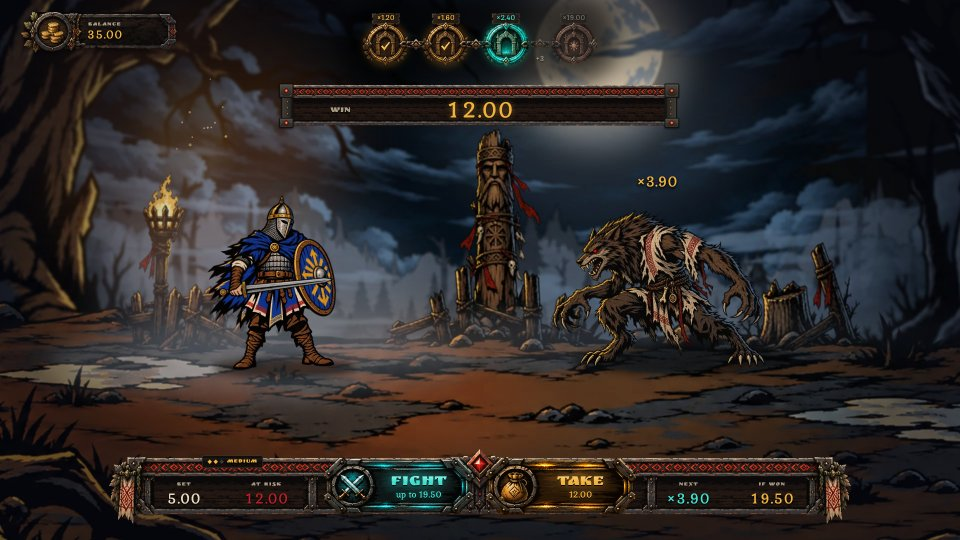
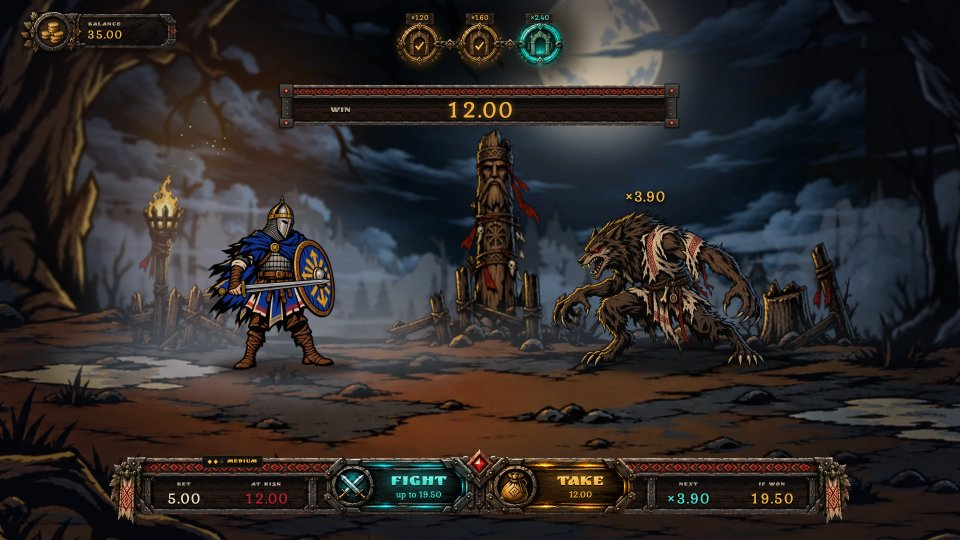
test: enemy-per-gate checks and new Figma references (L6, Baba Yaga)

diff --git a/docs/qa/report.html b/docs/qa/report.html
@@ -12,11 +12,11 @@
   tr.ok td:first-child { color: #3fe0d0; } tr.bad td:first-child { color: #f05a5a; font-weight: bold; }
 </style></head><body>
 <h1>Casino Game · visual QA</h1>
-<p>Generated 2026-11-07T09:13:08.190Z by <code>prototype/scripts/visual-qa.mjs</code> · app at 1920×1080 (shown at 960×540) · Figma file LXMHPQWUYxLjZiYVTfbx5X.
+<p>Generated 2026-11-07T09:42:40.755Z by <code>prototype/scripts/visual-qa.mjs</code> · app at 1920×1080 (shown at 960×540) · Figma file LXMHPQWUYxLjZiYVTfbx5X.
 Animated frames (attacks, boss entrance) will differ slightly: judge layout, UI and numbers. Character art comes from Lottie, so poses differ from the static Figma frames.</p>
-<h2>Money and runtime checks: 63/63 passed</h2>
-<table><tr class="ok"><td>PASS</td><td>Debug panel: effective RTP for all 7 gates (g1 = 78.0 %)</td><td>g1 78.0% g2 67.6% g3 65.9% g4 69.6% g5 78.9% g6 86.7% g7 93.1%</td></tr><tr class="ok"><td>PASS</td><td>L0: AT RISK (dock) = WIN (counter)</td><td>0.00 vs 0.00</td></tr><tr class="ok"><td>PASS</td><td>L0: AT RISK = game value</td><td>0.00 vs 0</td></tr><tr class="ok"><td>PASS</td><td>L0: TAKE disabled before the first win</td><td></td></tr><tr class="ok"><td>PASS</td><td>L0: IF WON = FIGHT amount</td><td>up to 6.00 vs 6.00</td></tr><tr class="ok"><td>PASS</td><td>L0: AT RISK has 2 decimals</td><td>0.00</td></tr><tr class="ok"><td>PASS</td><td>L0: IF WON has 2 decimals</td><td>6.00</td></tr><tr class="ok"><td>PASS</td><td>L0: WIN has 2 decimals</td><td>0.00</td></tr><tr class="ok"><td>PASS</td><td>Balance after PLAY = start − bet</td><td>35.00</td></tr><tr class="ok"><td>PASS</td><td>L1: AT RISK (dock) = WIN (counter)</td><td>6.00 vs 6.00</td></tr><tr class="ok"><td>PASS</td><td>L1: AT RISK = game value</td><td>6.00 vs 6</td></tr><tr class="ok"><td>PASS</td><td>L1: TAKE amount = AT RISK</td><td>6.00 vs 6.00</td></tr><tr class="ok"><td>PASS</td><td>L1: IF WON = FIGHT amount</td><td>up to 8.00 vs 8.00</td></tr><tr class="ok"><td>PASS</td><td>L1: AT RISK has 2 decimals</td><td>6.00</td></tr><tr class="ok"><td>PASS</td><td>L1: IF WON has 2 decimals</td><td>8.00</td></tr><tr class="ok"><td>PASS</td><td>L1: WIN has 2 decimals</td><td>6.00</td></tr><tr class="ok"><td>PASS</td><td>L1: path ends with the locked boss gate (final multiplier)</td><td>×19.00</td></tr><tr class="ok"><td>PASS</td><td>L1: plate is text only (no plate art)</td><td>×1.60</td></tr><tr class="ok"><td>PASS</td><td>L1: plate at x1217, 60 px below Counter/Win (y330)</td><td>1217,330</td></tr><tr class="ok"><td>PASS</td><td>L2: AT RISK (dock) = WIN (counter)</td><td>8.00 vs 8.00</td></tr><tr class="ok"><td>PASS</td><td>L2: AT RISK = game value</td><td>8.00 vs 8</td></tr><tr class="ok"><td>PASS</td><td>L2: TAKE amount = AT RISK</td><td>8.00 vs 8.00</td></tr><tr class="ok"><td>PASS</td><td>L2: IF WON = FIGHT amount</td><td>up to 12.00 vs 12.00</td></tr><tr class="ok"><td>PASS</td><td>L2: AT RISK has 2 decimals</td><td>8.00</td></tr><tr class="ok"><td>PASS</td><td>L2: IF WON has 2 decimals</td><td>12.00</td></tr><tr class="ok"><td>PASS</td><td>L2: WIN has 2 decimals</td><td>8.00</td></tr><tr class="ok"><td>PASS</td><td>L3: AT RISK (dock) = WIN (counter)</td><td>12.00 vs 12.00</td></tr><tr class="ok"><td>PASS</td><td>L3: AT RISK = game value</td><td>12.00 vs 12</td></tr><tr class="ok"><td>PASS</td><td>L3: TAKE amount = AT RISK</td><td>12.00 vs 12.00</td></tr><tr class="ok"><td>PASS</td><td>L3: IF WON = FIGHT amount</td><td>up to 19.50 vs 19.50</td></tr><tr class="ok"><td>PASS</td><td>L3: AT RISK has 2 decimals</td><td>12.00</td></tr><tr class="ok"><td>PASS</td><td>L3: IF WON has 2 decimals</td><td>19.50</td></tr><tr class="ok"><td>PASS</td><td>L3: WIN has 2 decimals</td><td>12.00</td></tr><tr class="ok"><td>PASS</td><td>L4: AT RISK (dock) = WIN (counter)</td><td>19.50 vs 19.50</td></tr><tr class="ok"><td>PASS</td><td>L4: AT RISK = game value</td><td>19.50 vs 19.5</td></tr><tr class="ok"><td>PASS</td><td>L4: TAKE amount = AT RISK</td><td>19.50 vs 19.50</td></tr><tr class="ok"><td>PASS</td><td>L4: IF WON = FIGHT amount</td><td>up to 34.00 vs 34.00</td></tr><tr class="ok"><td>PASS</td><td>L4: AT RISK has 2 decimals</td><td>19.50</td></tr><tr class="ok"><td>PASS</td><td>L4: IF WON has 2 decimals</td><td>34.00</td></tr><tr class="ok"><td>PASS</td><td>L4: WIN has 2 decimals</td><td>19.50</td></tr><tr class="ok"><td>PASS</td><td>L5: AT RISK (dock) = WIN (counter)</td><td>34.00 vs 34.00</td></tr><tr class="ok"><td>PASS</td><td>L5: AT RISK = game value</td><td>34.00 vs 34</td></tr><tr class="ok"><td>PASS</td><td>L5: TAKE amount = AT RISK</td><td>34.00 vs 34.00</td></tr><tr class="ok"><td>PASS</td><td>L5: IF WON = FIGHT amount</td><td>up to 57.50 vs 57.50</td></tr><tr class="ok"><td>PASS</td><td>L5: AT RISK has 2 decimals</td><td>34.00</td></tr><tr class="ok"><td>PASS</td><td>L5: IF WON has 2 decimals</td><td>57.50</td></tr><tr class="ok"><td>PASS</td><td>L5: WIN has 2 decimals</td><td>34.00</td></tr><tr class="ok"><td>PASS</td><td>Victory banner = AT RISK growth (19.50 − 12.00)</td><td>+7.50</td></tr><tr class="ok"><td>PASS</td><td>Defeat popup = −bet</td><td></td></tr><tr class="ok"><td>PASS</td><td>Defeat: balance = before − bet</td><td>35.00</td></tr><tr class="ok"><td>PASS</td><td>Cashed out popup = TAKE amount = AT RISK</td><td>+12.00 / 12.00 / 12.00</td></tr><tr class="ok"><td>PASS</td><td>Cashed out: balance = before − bet + payout</td><td>47.00</td></tr><tr class="ok"><td>PASS</td><td>Boss intro banner shows FINAL BATTLE and the final multiplier</td><td>FINAL BATTLE·MAX WIN×19.00</td></tr><tr class="ok"><td>PASS</td><td>Boss level: dock label reads MAX WIN</td><td>MAX WIN</td></tr><tr class="ok"><td>PASS</td><td>Boss level: FIGHT reads "max win" = MAX WIN slot</td><td>max win 95.00 vs 95.00</td></tr><tr class="ok"><td>PASS</td><td>Boss level: FIGHT uses Highlight</td><td></td></tr><tr class="ok"><td>PASS</td><td>Boss level: plate shows only the final multiplier</td><td>×19.00</td></tr><tr class="ok"><td>PASS</td><td>Boss level: plate at x1217, 30 px below Counter/Win (y300)</td><td>1217,300</td></tr><tr class="ok"><td>PASS</td><td>MAX WIN popup = IF WON before the boss fight</td><td>+95.00 vs 95.00</td></tr><tr class="ok"><td>PASS</td><td>MAX WIN: balance unchanged until the popup shows</td><td>35</td></tr><tr class="ok"><td>PASS</td><td>MAX WIN: balance = before − bet + payout</td><td>130.00</td></tr><tr class="ok"><td>PASS</td><td>Lottie clip mount during a round (JS) < 100 ms each (roadmap long-task target)</td><td>17 mounts, worst 35 ms (hero_05_dead.json)</td></tr><tr class="ok"><td>PASS</td><td>No page errors or console errors</td><td></td></tr></table>
-<p><code>info</code> Headless (software GL) long tasks during the perf round: 51, max 494 ms. Not a gate; see checklist for real-GPU numbers.</p>
+<h2>Money and runtime checks: 67/67 passed</h2>
+<table><tr class="ok"><td>PASS</td><td>Debug panel: effective RTP for all 7 gates (g1 = 78.0 %)</td><td>g1 78.0% g2 67.6% g3 65.9% g4 69.6% g5 78.9% g6 86.7% g7 93.1%</td></tr><tr class="ok"><td>PASS</td><td>L0: AT RISK (dock) = WIN (counter)</td><td>0.00 vs 0.00</td></tr><tr class="ok"><td>PASS</td><td>L0: AT RISK = game value</td><td>0.00 vs 0</td></tr><tr class="ok"><td>PASS</td><td>L0: TAKE disabled before the first win</td><td></td></tr><tr class="ok"><td>PASS</td><td>L0: IF WON = FIGHT amount</td><td>up to 6.00 vs 6.00</td></tr><tr class="ok"><td>PASS</td><td>L0: AT RISK has 2 decimals</td><td>0.00</td></tr><tr class="ok"><td>PASS</td><td>L0: IF WON has 2 decimals</td><td>6.00</td></tr><tr class="ok"><td>PASS</td><td>L0: WIN has 2 decimals</td><td>0.00</td></tr><tr class="ok"><td>PASS</td><td>Balance after PLAY = start − bet</td><td>35.00</td></tr><tr class="ok"><td>PASS</td><td>L1: AT RISK (dock) = WIN (counter)</td><td>6.00 vs 6.00</td></tr><tr class="ok"><td>PASS</td><td>L1: AT RISK = game value</td><td>6.00 vs 6</td></tr><tr class="ok"><td>PASS</td><td>L1: TAKE amount = AT RISK</td><td>6.00 vs 6.00</td></tr><tr class="ok"><td>PASS</td><td>L1: IF WON = FIGHT amount</td><td>up to 8.00 vs 8.00</td></tr><tr class="ok"><td>PASS</td><td>L1: AT RISK has 2 decimals</td><td>6.00</td></tr><tr class="ok"><td>PASS</td><td>L1: IF WON has 2 decimals</td><td>8.00</td></tr><tr class="ok"><td>PASS</td><td>L1: WIN has 2 decimals</td><td>6.00</td></tr><tr class="ok"><td>PASS</td><td>L1: path shows only the reached gate</td><td>1</td></tr><tr class="ok"><td>PASS</td><td>L1: plate is text only (no plate art)</td><td>×1.60</td></tr><tr class="ok"><td>PASS</td><td>L1: plate over the vovkulak at 1193,360 (Figma 756:6778)</td><td>1193,360</td></tr><tr class="ok"><td>PASS</td><td>L2: AT RISK (dock) = WIN (counter)</td><td>8.00 vs 8.00</td></tr><tr class="ok"><td>PASS</td><td>L2: AT RISK = game value</td><td>8.00 vs 8</td></tr><tr class="ok"><td>PASS</td><td>L2: TAKE amount = AT RISK</td><td>8.00 vs 8.00</td></tr><tr class="ok"><td>PASS</td><td>L2: IF WON = FIGHT amount</td><td>up to 12.00 vs 12.00</td></tr><tr class="ok"><td>PASS</td><td>L2: AT RISK has 2 decimals</td><td>8.00</td></tr><tr class="ok"><td>PASS</td><td>L2: IF WON has 2 decimals</td><td>12.00</td></tr><tr class="ok"><td>PASS</td><td>L2: WIN has 2 decimals</td><td>8.00</td></tr><tr class="ok"><td>PASS</td><td>L3: AT RISK (dock) = WIN (counter)</td><td>12.00 vs 12.00</td></tr><tr class="ok"><td>PASS</td><td>L3: AT RISK = game value</td><td>12.00 vs 12</td></tr><tr class="ok"><td>PASS</td><td>L3: TAKE amount = AT RISK</td><td>12.00 vs 12.00</td></tr><tr class="ok"><td>PASS</td><td>L3: IF WON = FIGHT amount</td><td>up to 19.50 vs 19.50</td></tr><tr class="ok"><td>PASS</td><td>L3: AT RISK has 2 decimals</td><td>12.00</td></tr><tr class="ok"><td>PASS</td><td>L3: IF WON has 2 decimals</td><td>19.50</td></tr><tr class="ok"><td>PASS</td><td>L3: WIN has 2 decimals</td><td>12.00</td></tr><tr class="ok"><td>PASS</td><td>L4: AT RISK (dock) = WIN (counter)</td><td>19.50 vs 19.50</td></tr><tr class="ok"><td>PASS</td><td>L4: AT RISK = game value</td><td>19.50 vs 19.5</td></tr><tr class="ok"><td>PASS</td><td>L4: TAKE amount = AT RISK</td><td>19.50 vs 19.50</td></tr><tr class="ok"><td>PASS</td><td>L4: IF WON = FIGHT amount</td><td>up to 34.00 vs 34.00</td></tr><tr class="ok"><td>PASS</td><td>L4: AT RISK has 2 decimals</td><td>19.50</td></tr><tr class="ok"><td>PASS</td><td>L4: IF WON has 2 decimals</td><td>34.00</td></tr><tr class="ok"><td>PASS</td><td>L4: WIN has 2 decimals</td><td>19.50</td></tr><tr class="ok"><td>PASS</td><td>L5: AT RISK (dock) = WIN (counter)</td><td>34.00 vs 34.00</td></tr><tr class="ok"><td>PASS</td><td>L5: AT RISK = game value</td><td>34.00 vs 34</td></tr><tr class="ok"><td>PASS</td><td>L5: TAKE amount = AT RISK</td><td>34.00 vs 34.00</td></tr><tr class="ok"><td>PASS</td><td>L5: IF WON = FIGHT amount</td><td>up to 57.50 vs 57.50</td></tr><tr class="ok"><td>PASS</td><td>L5: AT RISK has 2 decimals</td><td>34.00</td></tr><tr class="ok"><td>PASS</td><td>L5: IF WON has 2 decimals</td><td>57.50</td></tr><tr class="ok"><td>PASS</td><td>L5: WIN has 2 decimals</td><td>34.00</td></tr><tr class="ok"><td>PASS</td><td>L5: gate 6 enemy is the vovkulak boss, not final</td><td>vovkulakBoss final=false</td></tr><tr class="ok"><td>PASS</td><td>L5: dock still reads IF WON on gate 6</td><td>IF WON</td></tr><tr class="ok"><td>PASS</td><td>L5: plate over the boss at 1201,327 (Figma 756:6539)</td><td>1201,327</td></tr><tr class="ok"><td>PASS</td><td>Victory banner = AT RISK growth (19.50 − 12.00)</td><td>+7.50</td></tr><tr class="ok"><td>PASS</td><td>Defeat popup = −bet</td><td></td></tr><tr class="ok"><td>PASS</td><td>Defeat: balance = before − bet</td><td>35.00</td></tr><tr class="ok"><td>PASS</td><td>Cashed out popup = TAKE amount = AT RISK</td><td>+12.00 / 12.00 / 12.00</td></tr><tr class="ok"><td>PASS</td><td>Cashed out: balance = before − bet + payout</td><td>47.00</td></tr><tr class="ok"><td>PASS</td><td>Baba Yaga intro banner shows FINAL BATTLE and the final multiplier</td><td>FINAL BATTLE·MAX WIN×19.00</td></tr><tr class="ok"><td>PASS</td><td>Baba Yaga: dock label reads MAX WIN</td><td>MAX WIN</td></tr><tr class="ok"><td>PASS</td><td>Baba Yaga: FIGHT reads "max win" = MAX WIN slot</td><td>max win 95.00 vs 95.00</td></tr><tr class="ok"><td>PASS</td><td>Baba Yaga: FIGHT uses Highlight</td><td></td></tr><tr class="ok"><td>PASS</td><td>Baba Yaga: plate shows only the final multiplier</td><td>×19.00</td></tr><tr class="ok"><td>PASS</td><td>Baba Yaga: plate over her head at 1247,306 (Figma 748:6069)</td><td>1247,306</td></tr><tr class="ok"><td>PASS</td><td>Baba Yaga: gate 7 enemy is final</td><td>babaYaga final=true</td></tr><tr class="ok"><td>PASS</td><td>MAX WIN popup = IF WON before the boss fight</td><td>+95.00 vs 95.00</td></tr><tr class="ok"><td>PASS</td><td>MAX WIN: balance unchanged until the popup shows</td><td>35</td></tr><tr class="ok"><td>PASS</td><td>MAX WIN: balance = before − bet + payout</td><td>130.00</td></tr><tr class="ok"><td>PASS</td><td>Lottie clip mount during a round (JS) < 100 ms each (roadmap long-task target)</td><td>17 mounts, worst 60 ms (hero_04_hit.json)</td></tr><tr class="ok"><td>PASS</td><td>No page errors or console errors</td><td></td></tr></table>
+<p><code>info</code> Headless (software GL) long tasks during the perf round: 38, max 999 ms. Not a gate; see checklist for real-GPU numbers.</p>
 
     <section>
       <h2>SETUP <code>587:5125</code></h2>
@@ -59,10 +59,10 @@ Animated frames (attacks, boss entrance) will differ slightly: judge layout, UI 
       </div>
     </section>
     <section>
-      <h2>DECISION level 5 <code>473:1307</code></h2>
+      <h2>DECISION after 5 wins: gate 6, Vovkulak Boss (L6 reference) <code>756:6539</code></h2>
       <div class="row" data-file="06-decision-l5">
-        <figure><img src="figma/06-decision-l5.jpg" alt="Figma DECISION level 5"><figcaption>Figma</figcaption></figure>
-        <figure><img src="app/06-decision-l5.jpg" alt="App DECISION level 5"><figcaption>App</figcaption></figure>
+        <figure><img src="figma/06-decision-l5.jpg" alt="Figma DECISION after 5 wins: gate 6, Vovkulak Boss (L6 reference)"><figcaption>Figma</figcaption></figure>
+        <figure><img src="app/06-decision-l5.jpg" alt="App DECISION after 5 wins: gate 6, Vovkulak Boss (L6 reference)"><figcaption>App</figcaption></figure>
         <figure><canvas width="960" height="540"></canvas><figcaption>Difference (black = identical)</figcaption></figure>
       </div>
     </section>
@@ -107,26 +107,26 @@ Animated frames (attacks, boss entrance) will differ slightly: judge layout, UI 
       </div>
     </section>
     <section>
-      <h2>Boss entrance <code>650:7598</code></h2>
+      <h2>Baba Yaga entrance (gate 7) <code>843:6304</code></h2>
       <div class="row" data-file="12-boss-entrance">
-        <figure><img src="figma/12-boss-entrance.jpg" alt="Figma Boss entrance"><figcaption>Figma</figcaption></figure>
-        <figure><img src="app/12-boss-entrance.jpg" alt="App Boss entrance"><figcaption>App</figcaption></figure>
+        <figure><img src="figma/12-boss-entrance.jpg" alt="Figma Baba Yaga entrance (gate 7)"><figcaption>Figma</figcaption></figure>
+        <figure><img src="app/12-boss-entrance.jpg" alt="App Baba Yaga entrance (gate 7)"><figcaption>App</figcaption></figure>
         <figure><canvas width="960" height="540"></canvas><figcaption>Difference (black = identical)</figcaption></figure>
       </div>
     </section>
     <section>
-      <h2>Boss final MAX WIN popup <code>660:5112</code></h2>
+      <h2>Big Boss final MAX WIN popup <code>819:6677</code></h2>
       <div class="row" data-file="13-max-win">
-        <figure><img src="figma/13-max-win.jpg" alt="Figma Boss final MAX WIN popup"><figcaption>Figma</figcaption></figure>
-        <figure><img src="app/13-max-win.jpg" alt="App Boss final MAX WIN popup"><figcaption>App</figcaption></figure>
+        <figure><img src="figma/13-max-win.jpg" alt="Figma Big Boss final MAX WIN popup"><figcaption>Figma</figcaption></figure>
+        <figure><img src="app/13-max-win.jpg" alt="App Big Boss final MAX WIN popup"><figcaption>App</figcaption></figure>
         <figure><canvas width="960" height="540"></canvas><figcaption>Difference (black = identical)</figcaption></figure>
       </div>
     </section>
     <section>
-      <h2>Boss level before FIGHT <code>473:1397</code></h2>
+      <h2>Baba Yaga (gate 7) before FIGHT (L7 reference) <code>748:6069</code></h2>
       <div class="row" data-file="14-boss-decision">
-        <figure><img src="figma/14-boss-decision.jpg" alt="Figma Boss level before FIGHT"><figcaption>Figma</figcaption></figure>
-        <figure><img src="app/14-boss-decision.jpg" alt="App Boss level before FIGHT"><figcaption>App</figcaption></figure>
+        <figure><img src="figma/14-boss-decision.jpg" alt="Figma Baba Yaga (gate 7) before FIGHT (L7 reference)"><figcaption>Figma</figcaption></figure>
+        <figure><img src="app/14-boss-decision.jpg" alt="App Baba Yaga (gate 7) before FIGHT (L7 reference)"><figcaption>App</figcaption></figure>
         <figure><canvas width="960" height="540"></canvas><figcaption>Difference (black = identical)</figcaption></figure>
       </div>
     </section>
